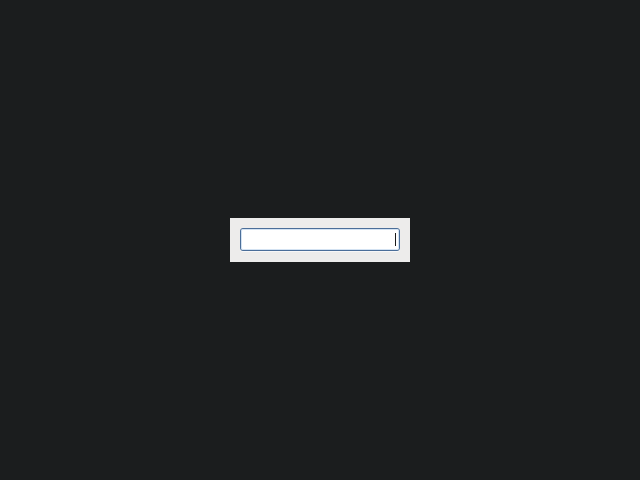
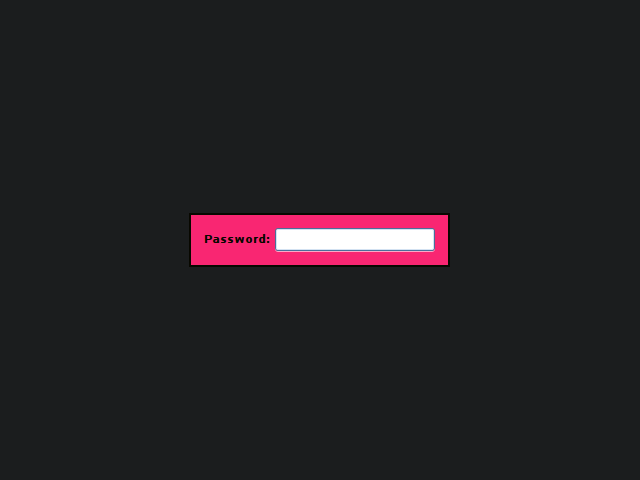
[#495] Add Additional Customization Options
Allow customizing the color of the background & login windows, the text
and the login window's border.

Allow customizing the login window's border & the space between the
password input & the window border.

Refs #495

Changed region(s): [[0.2812, 0.4375, 0.7188, 0.5625]]

diff --git a/src/ui.c b/src/ui.c
@@ -1,7 +1,11 @@
 /* Functions related to the GUI. */
+#define _GNU_SOURCE
 #include <stdlib.h>
+#include <stdio.h>
+#include <string.h>
 
 #include <gtk/gtk.h>
+#include <glib.h>
 #include <lightdm.h>
 
 #include "callbacks.h"
@@ -10,12 +14,13 @@
 
 
 static UI *new_ui(void);
-static void setup_background_window(Config *config, UI *ui);
+static void setup_background_window(UI *ui);
 static void set_window_to_screen_size(GtkWindow *window);
-static void setup_main_window(UI *ui);
+static void setup_main_window(Config *config, UI *ui);
 static void create_and_attach_layout_container(UI *ui);
 static void create_and_attach_password_field(Config *config, UI *ui);
 static void create_and_attach_feedback_label(UI *ui);
+static void attach_config_colors_to_screen(Config *config);
 
 
 /* Initialize the Main Window & it's Children */
@@ -23,11 +28,12 @@ UI *initialize_ui(Config *config)
 {
     UI *ui = new_ui();
 
-    setup_background_window(config, ui);
-    setup_main_window(ui);
+    setup_background_window(ui);
+    setup_main_window(config, ui);
     create_and_attach_layout_container(ui);
     create_and_attach_password_field(config, ui);
     create_and_attach_feedback_label(ui);
+    attach_config_colors_to_screen(config);
 
     return ui;
 }
@@ -52,22 +58,17 @@ static UI *new_ui(void)
 
 
 /* Create & Configure the Background Window */
-static void setup_background_window(Config *config, UI *ui)
+static void setup_background_window(UI *ui)
 {
     GtkWindow *background_window = GTK_WINDOW(gtk_window_new(
         GTK_WINDOW_TOPLEVEL));
     gtk_window_set_type_hint(background_window, GDK_WINDOW_TYPE_HINT_DESKTOP);
     gtk_window_set_keep_below(background_window, TRUE);
-    gtk_widget_set_app_paintable(GTK_WIDGET(background_window), TRUE);
+    gtk_widget_set_name(GTK_WIDGET(background_window), "background");
 
     // Set Window Size to Screen Size
     set_window_to_screen_size(background_window);
 
-    // Set Background Color
-    gtk_widget_override_background_color(
-        GTK_WIDGET(background_window), GTK_STATE_FLAG_NORMAL,
-        config->background_color
-    );
 
     g_signal_connect(background_window, "destroy", G_CALLBACK(gtk_main_quit),
                      NULL);
@@ -91,13 +92,14 @@ static void set_window_to_screen_size(GtkWindow *window)
 
 
 /* Create & Configure the Main Window */
-static void setup_main_window(UI *ui)
+static void setup_main_window(Config *config, UI *ui)
 {
     GtkWindow *main_window = GTK_WINDOW(gtk_window_new(GTK_WINDOW_TOPLEVEL));
 
     gtk_window_set_default_size(main_window, 1, 1);
     gtk_window_set_position(main_window, GTK_WIN_POS_CENTER);
-    gtk_container_set_border_width(GTK_CONTAINER(main_window), 10);
+    gtk_container_set_border_width(GTK_CONTAINER(main_window), config->layout_spacing);
+    gtk_widget_set_name(GTK_WIDGET(main_window), "main");
     g_signal_connect(main_window, "destroy", G_CALLBACK(gtk_main_quit), NULL);
 
     ui->main_window = main_window;
@@ -156,4 +158,41 @@ static void create_and_attach_feedback_label(UI *ui)
 
     gtk_grid_attach_next_to(ui->layout_container, ui->feedback_label,
                             attachment_point, GTK_POS_BOTTOM, width, 1);
+}
+
+/* Attach a style provider to the screen, using color options from config */
+static void attach_config_colors_to_screen(Config *config)
+{
+    GtkCssProvider* provider = gtk_css_provider_new();
+
+    char *css;
+    asprintf(&css,
+        "GtkLabel {\n"
+            "color: %s;\n"
+            "font-weight: bold;\n"
+        "}\n"
+        "#background {\n"
+            "background-color: %s;\n"
+        "}\n"
+        "#main {\n"
+            "background-color: %s;\n"
+            "border-color: %s;\n"
+            "border-style: solid;\n"
+            "border-width: %s;\n"
+        "}\n"
+        , gdk_rgba_to_string(config->text_color)
+        , gdk_rgba_to_string(config->background_color)
+        , gdk_rgba_to_string(config->window_color)
+        , gdk_rgba_to_string(config->border_color)
+        , config->border_width
+    );
+
+    gtk_css_provider_load_from_data(provider, css, -1, NULL);
+
+    GdkScreen *screen = gdk_screen_get_default();
+    gtk_style_context_add_provider_for_screen(
+        screen, GTK_STYLE_PROVIDER(provider),
+        GTK_STYLE_PROVIDER_PRIORITY_USER + 1);
+
+    g_object_unref(provider);
 }

diff --git a/src/config.c b/src/config.c
@@ -34,8 +34,25 @@ Config *initialize_config(void)
     config->show_password_label = g_key_file_get_boolean(
         keyfile, "greeter", "show-password-label", NULL);
 
+    config->text_color =
+        parse_greeter_color_key(keyfile, "text-color");
     config->background_color =
         parse_greeter_color_key(keyfile, "background-color");
+    config->window_color =
+        parse_greeter_color_key(keyfile, "window-color");
+    config->border_color =
+        parse_greeter_color_key(keyfile, "border-color");
+    config->border_width = g_key_file_get_string(
+        keyfile, "greeter-theme", "border-width", NULL);
+
+    gint layout_spacing = g_key_file_get_integer(
+        keyfile, "greeter-theme", "layout-space", NULL);
+    if (layout_spacing < 0) {
+        config->layout_spacing = (guint) (-1 * layout_spacing);
+    } else {
+        config->layout_spacing = (guint) layout_spacing;
+    }
+
 
     g_key_file_free(keyfile);
 
@@ -56,7 +73,7 @@ void destroy_config(Config *config)
 static GdkRGBA *parse_greeter_color_key(GKeyFile *keyfile, const char *key_name)
 {
     gchar *color_string = g_key_file_get_string(
-        keyfile, "greeter-colors", "background-color", NULL);
+        keyfile, "greeter-theme", key_name, NULL);
     if (strstr(color_string, "#") != NULL) {
         // Remove quotations from hex color strings
         remove_char(color_string, '"');

diff --git a/src/config.h b/src/config.h
@@ -11,11 +11,16 @@
 
 // Represents the System's Greeter Configuration. Parsed from `CONFIG_FILE`.
 typedef struct Config_ {
-    gchar *login_user;
-    gboolean show_password_label;
+    gchar    *login_user;
+    gboolean  show_password_label;
 
     // Theme Configuration
-    GdkRGBA *background_color;
+    GdkRGBA  *text_color;
+    GdkRGBA  *background_color;
+    GdkRGBA  *window_color;
+    GdkRGBA  *border_color;
+    gchar    *border_width;
+    guint     layout_spacing;
 } Config;
 
 
